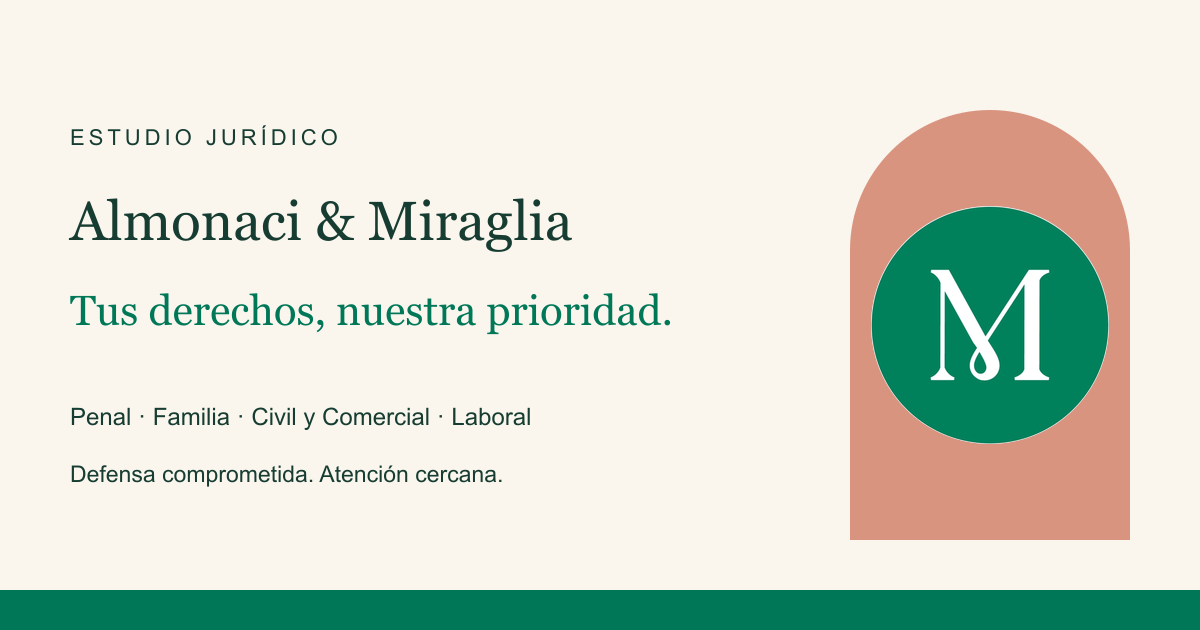
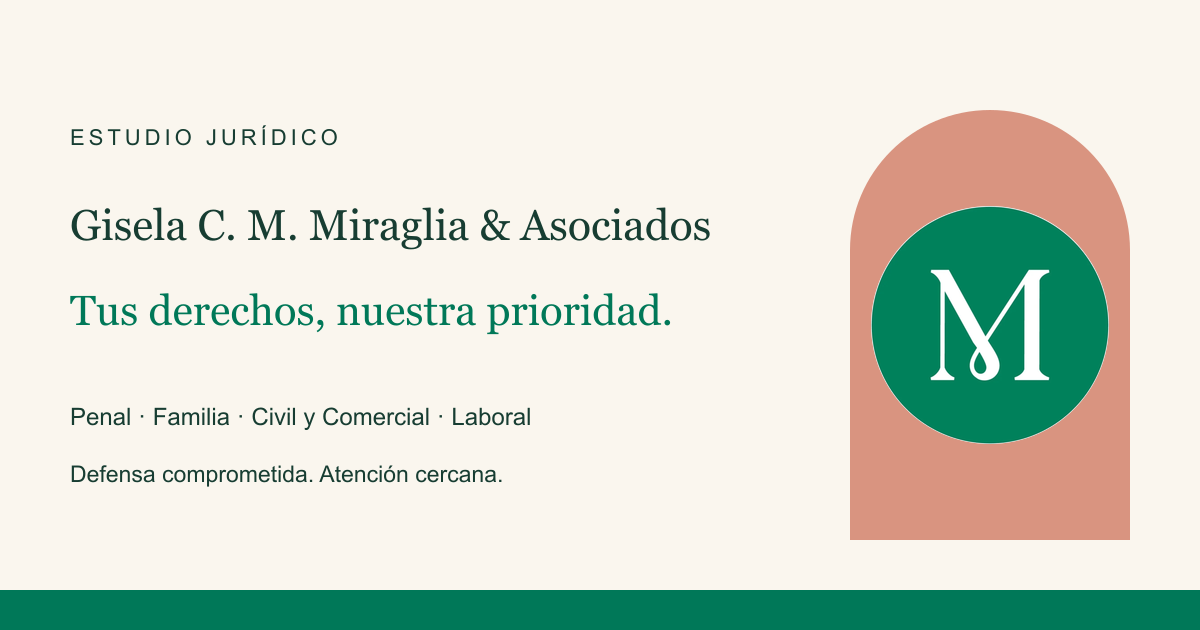
fix: cambio de nombre

Changed region(s): [[0.0617, 0.3016, 0.5858, 0.4222]]

diff --git a/src/data/business.ts b/src/data/business.ts
@@ -1,9 +1,9 @@
 export const business = {
-  name: "Almonaci & Miraglia",
+  name: "Gisela C. M. Miraglia & Asociados",
   category: "Estudio jurídico",
-  title: "Almonaci & Miraglia | Estudio jurídico",
+  title: "Gisela C. M. Miraglia & Asociados",
   description:
-    "Defensa comprometida y atención cercana. Asesoramiento en Derecho Penal, Familia, Civil y Comercial y Laboral. Consultá a Almonaci & Miraglia.",
+    "Gisela C. M. Miraglia & Asociados. Defensa comprometida y atención cercana en Derecho Penal, Familia, Civil y Comercial y Laboral. Consultanos.",
   locale: "es_AR",
   language: "es-AR",
   instagram: "https://www.instagram.com/abogadagiselamiraglia/",

diff --git a/README.md b/README.md
@@ -1,4 +1,4 @@
-# Almonaci & Miraglia
+# Gisela C. M. Miraglia & Asociados
 
 Landing estática con Astro 7, Tailwind 4 y TypeScript. Diseño editorial cálido, logo original optimizado y formulario hacia WhatsApp. No almacena consultas ni requiere backend. Los textos institucionales son provisionales.
 
